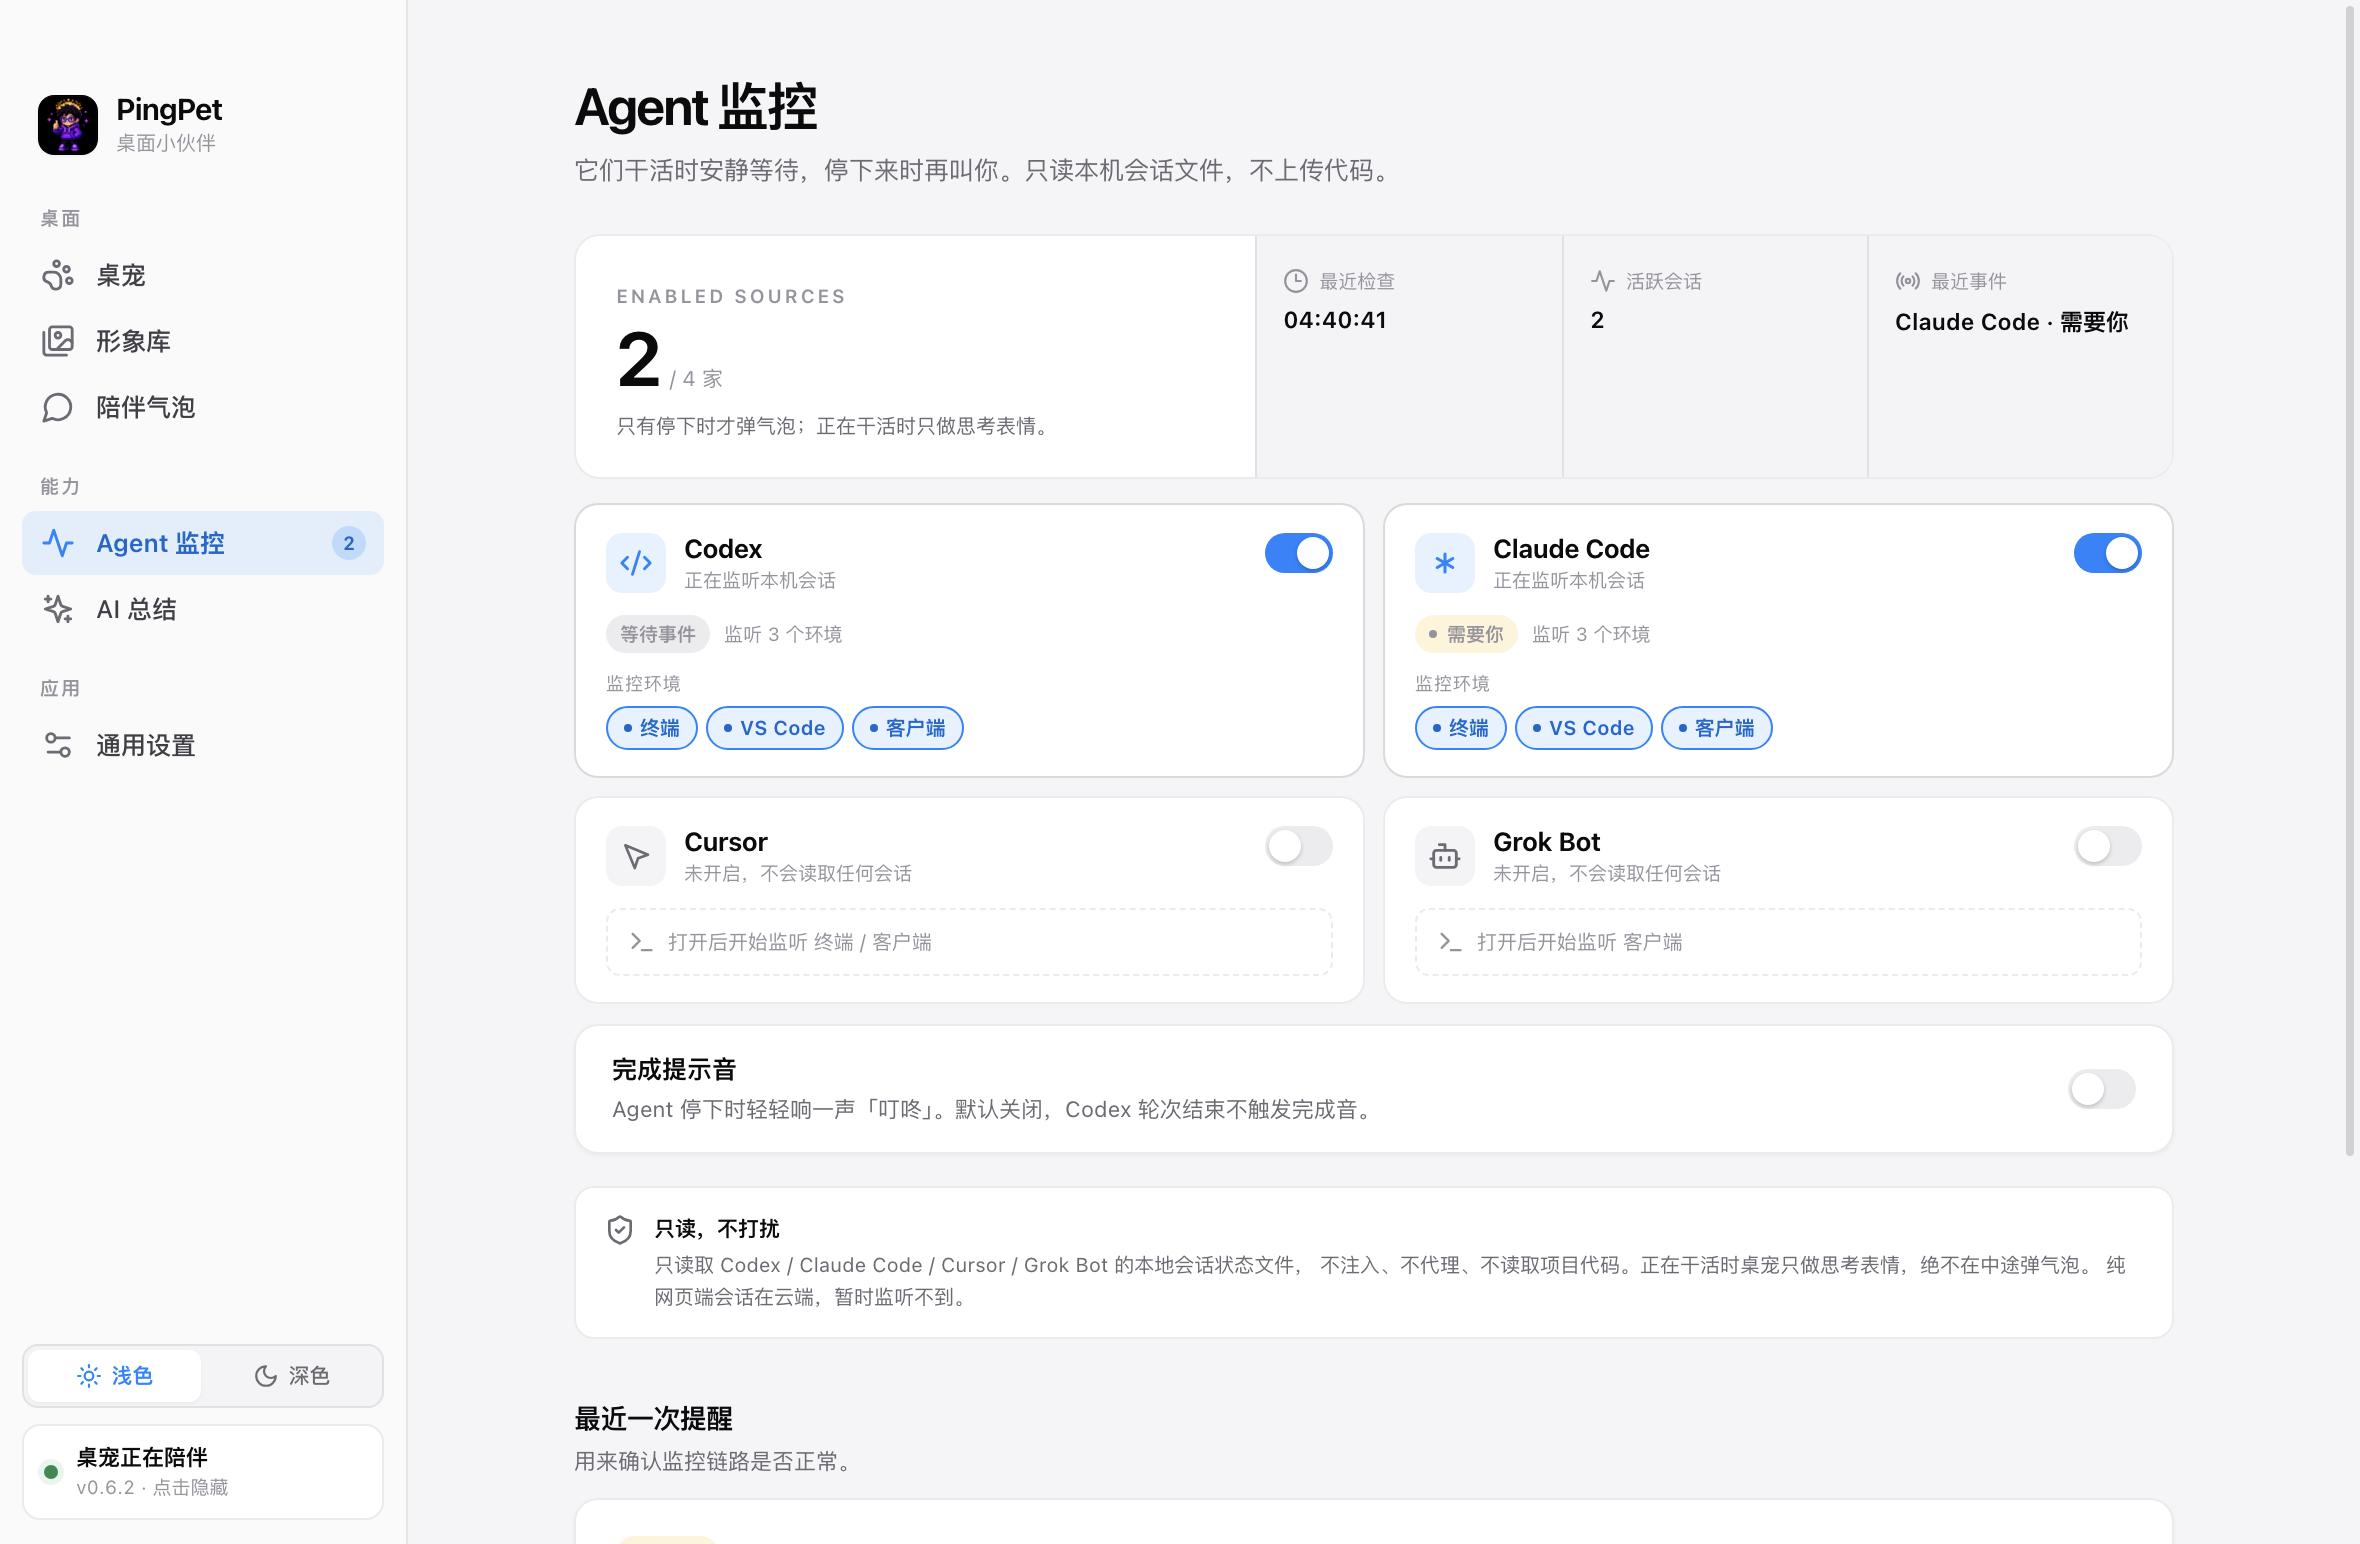
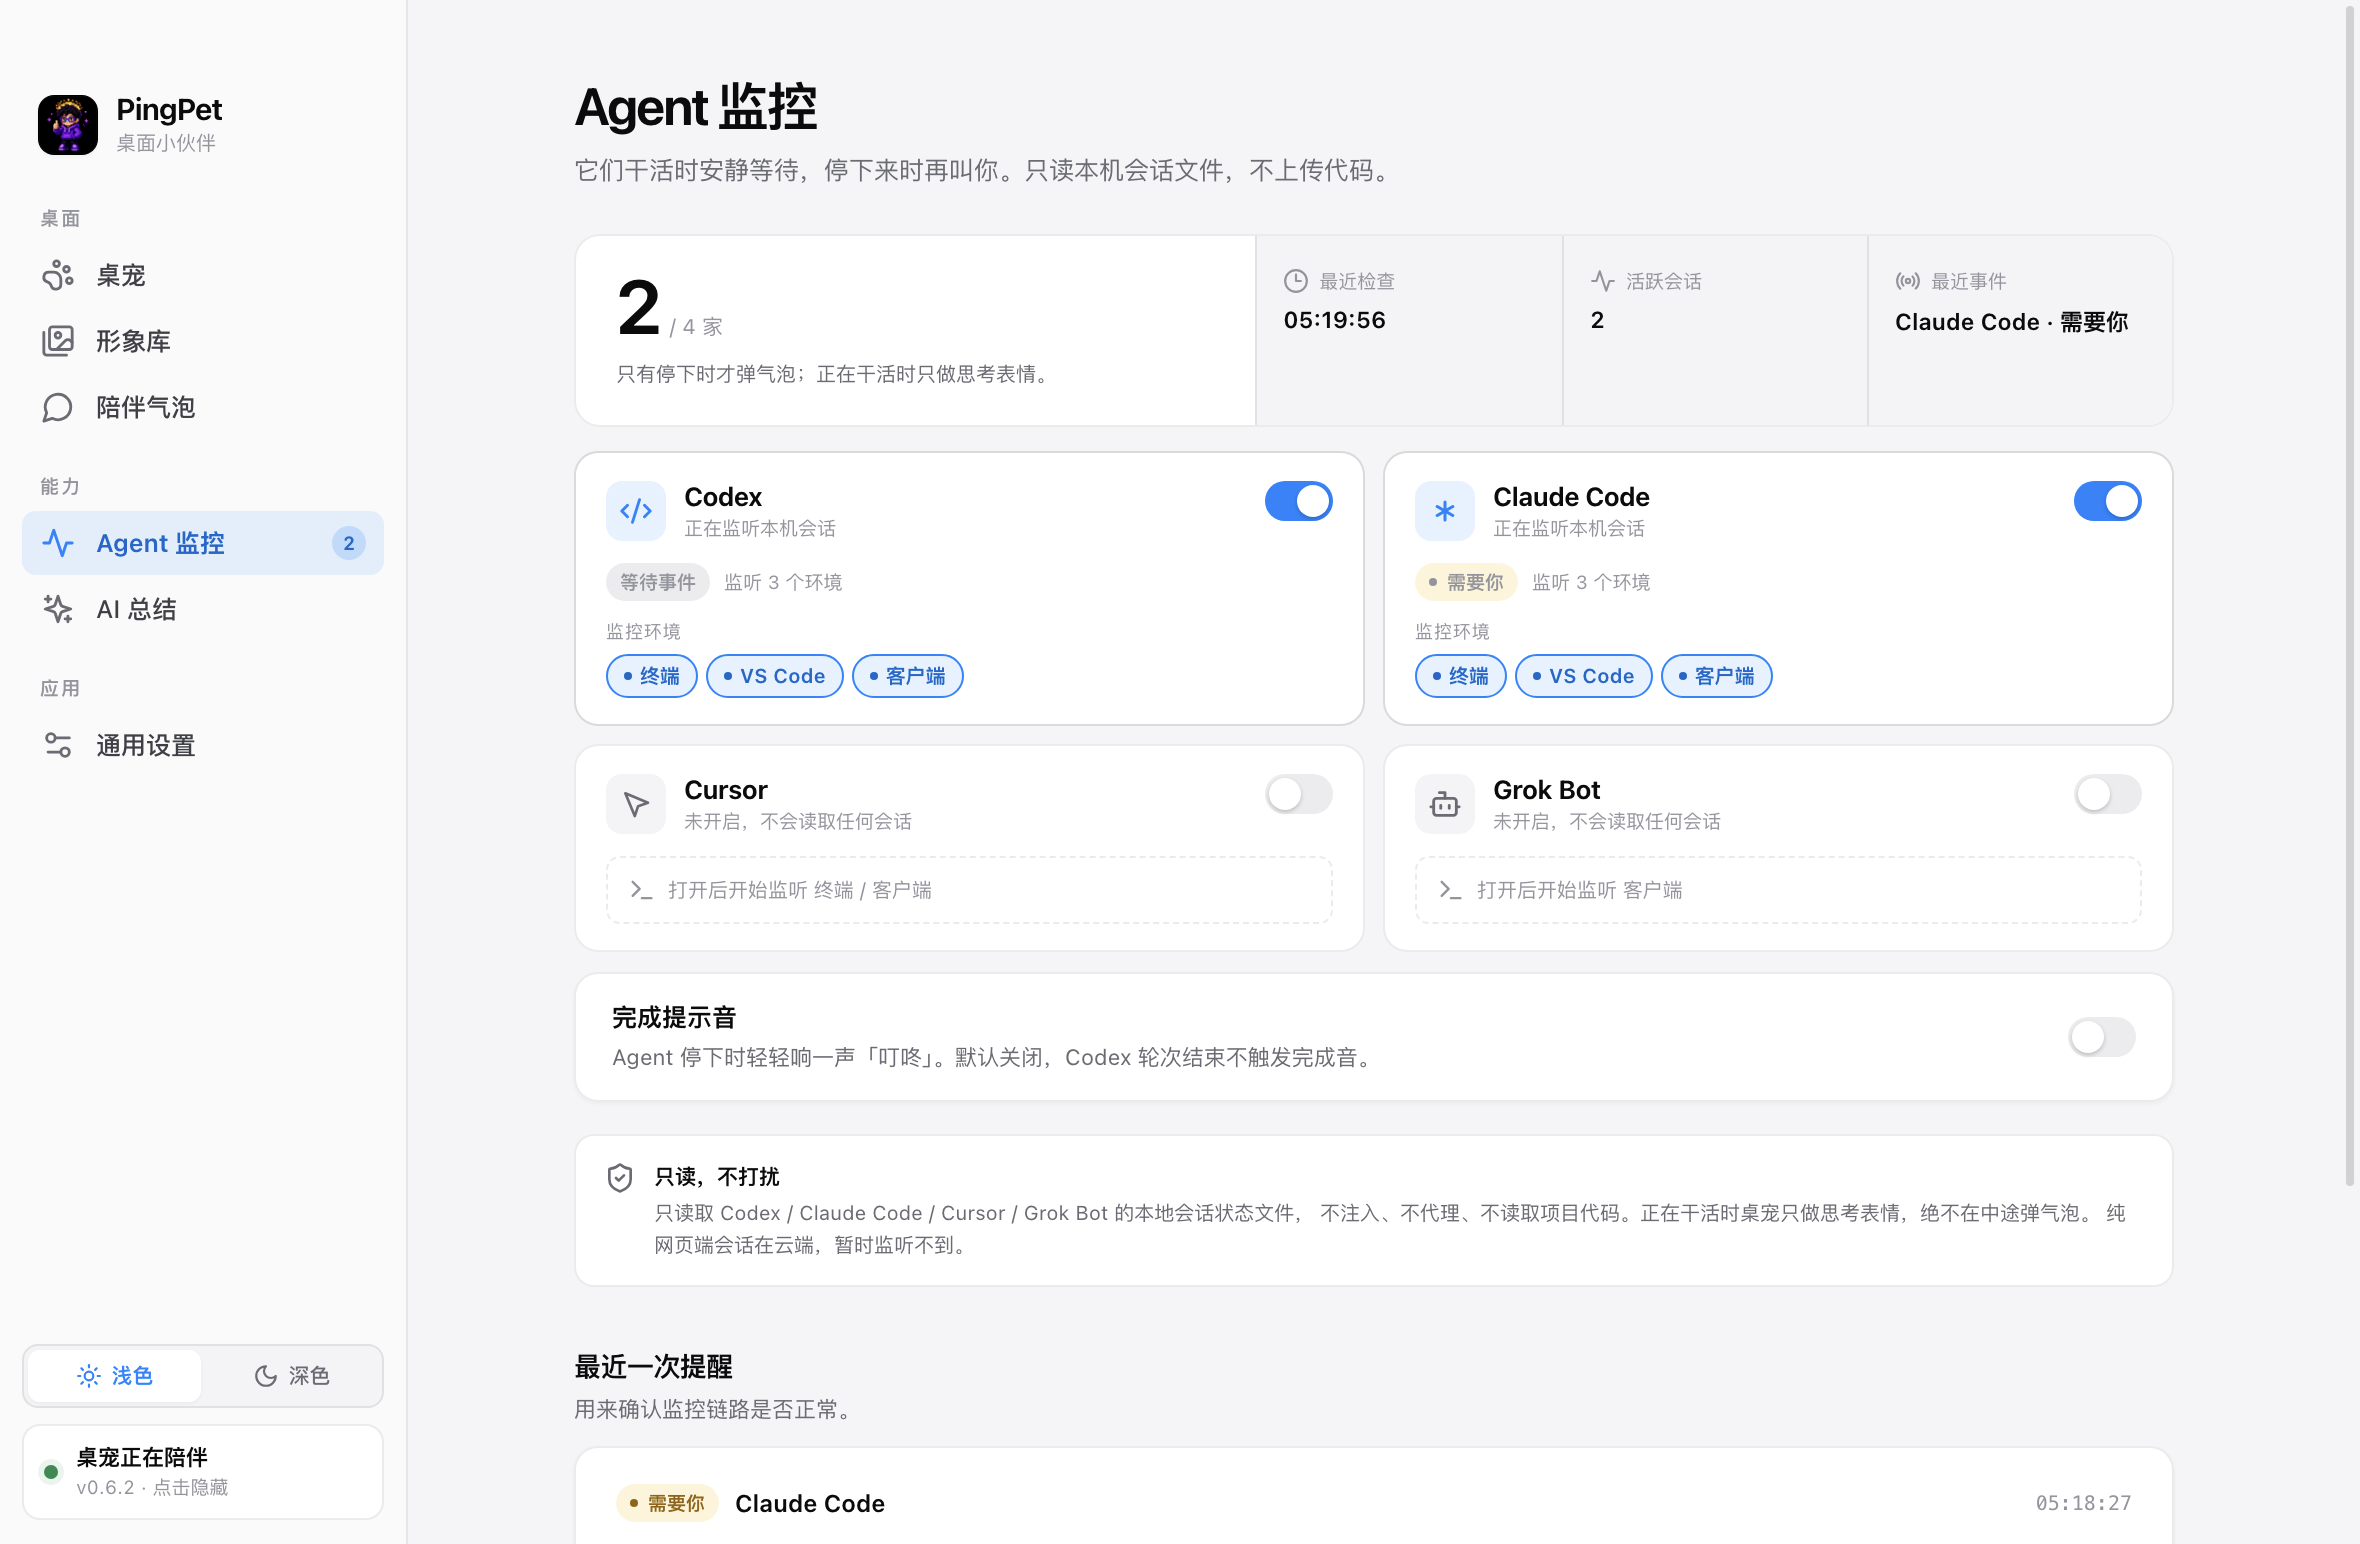
极简版收尾：去掉页面英文眉题，Agent 概览更干净

diff --git a/src/renderer/src/settings/ui.tsx b/src/renderer/src/settings/ui.tsx
@@ -131,12 +131,10 @@ export function SectionHead({
 }
 
 export function PageHead({
-  eyebrow,
   title,
   subtitle,
   actions
 }: {
-  eyebrow?: string
   title: string
   subtitle?: ReactNode
   actions?: ReactNode
@@ -144,7 +142,6 @@ export function PageHead({
   return (
     <header className="pp-page-head">
       <div className="pp-page-head__copy">
-        {eyebrow && <div className="pp-eyebrow">{eyebrow}</div>}
         <h1>{title}</h1>
         {subtitle && <p>{subtitle}</p>}
       </div>

diff --git a/src/renderer/src/settings/settings.css b/src/renderer/src/settings/settings.css
@@ -457,14 +457,6 @@ body[data-theme='dark'] .pp-theme-toggle button.is-active {
   min-width: 0;
 }
 
-.pp-eyebrow {
-  font-size: 9.5px;
-  font-weight: 600;
-  letter-spacing: 0.14em;
-  color: var(--pp-faint);
-  text-transform: uppercase;
-}
-
 .pp-page-head h1 {
   margin: 0;
   font-size: 26px;
@@ -1466,7 +1458,6 @@ body[data-theme='dark'] .pp-hero__pet {
   display: flex;
   align-items: baseline;
   gap: 6px;
-  margin-top: 7px;
 }
 
 .pp-agent-summary__count strong {

diff --git a/src/renderer/src/settings/AgentPage.tsx b/src/renderer/src/settings/AgentPage.tsx
@@ -103,7 +103,6 @@ export default function AgentPage(props: AgentPageProps): JSX.Element {
 
       <div className="pp-agent-summary">
         <div className="pp-agent-summary__main">
-          <span className="pp-eyebrow">ENABLED SOURCES</span>
           <div className="pp-agent-summary__count">
             <strong>{openCount}</strong>
             <span>/ {AGENT_SOURCE_LIST.length} 家</span>
